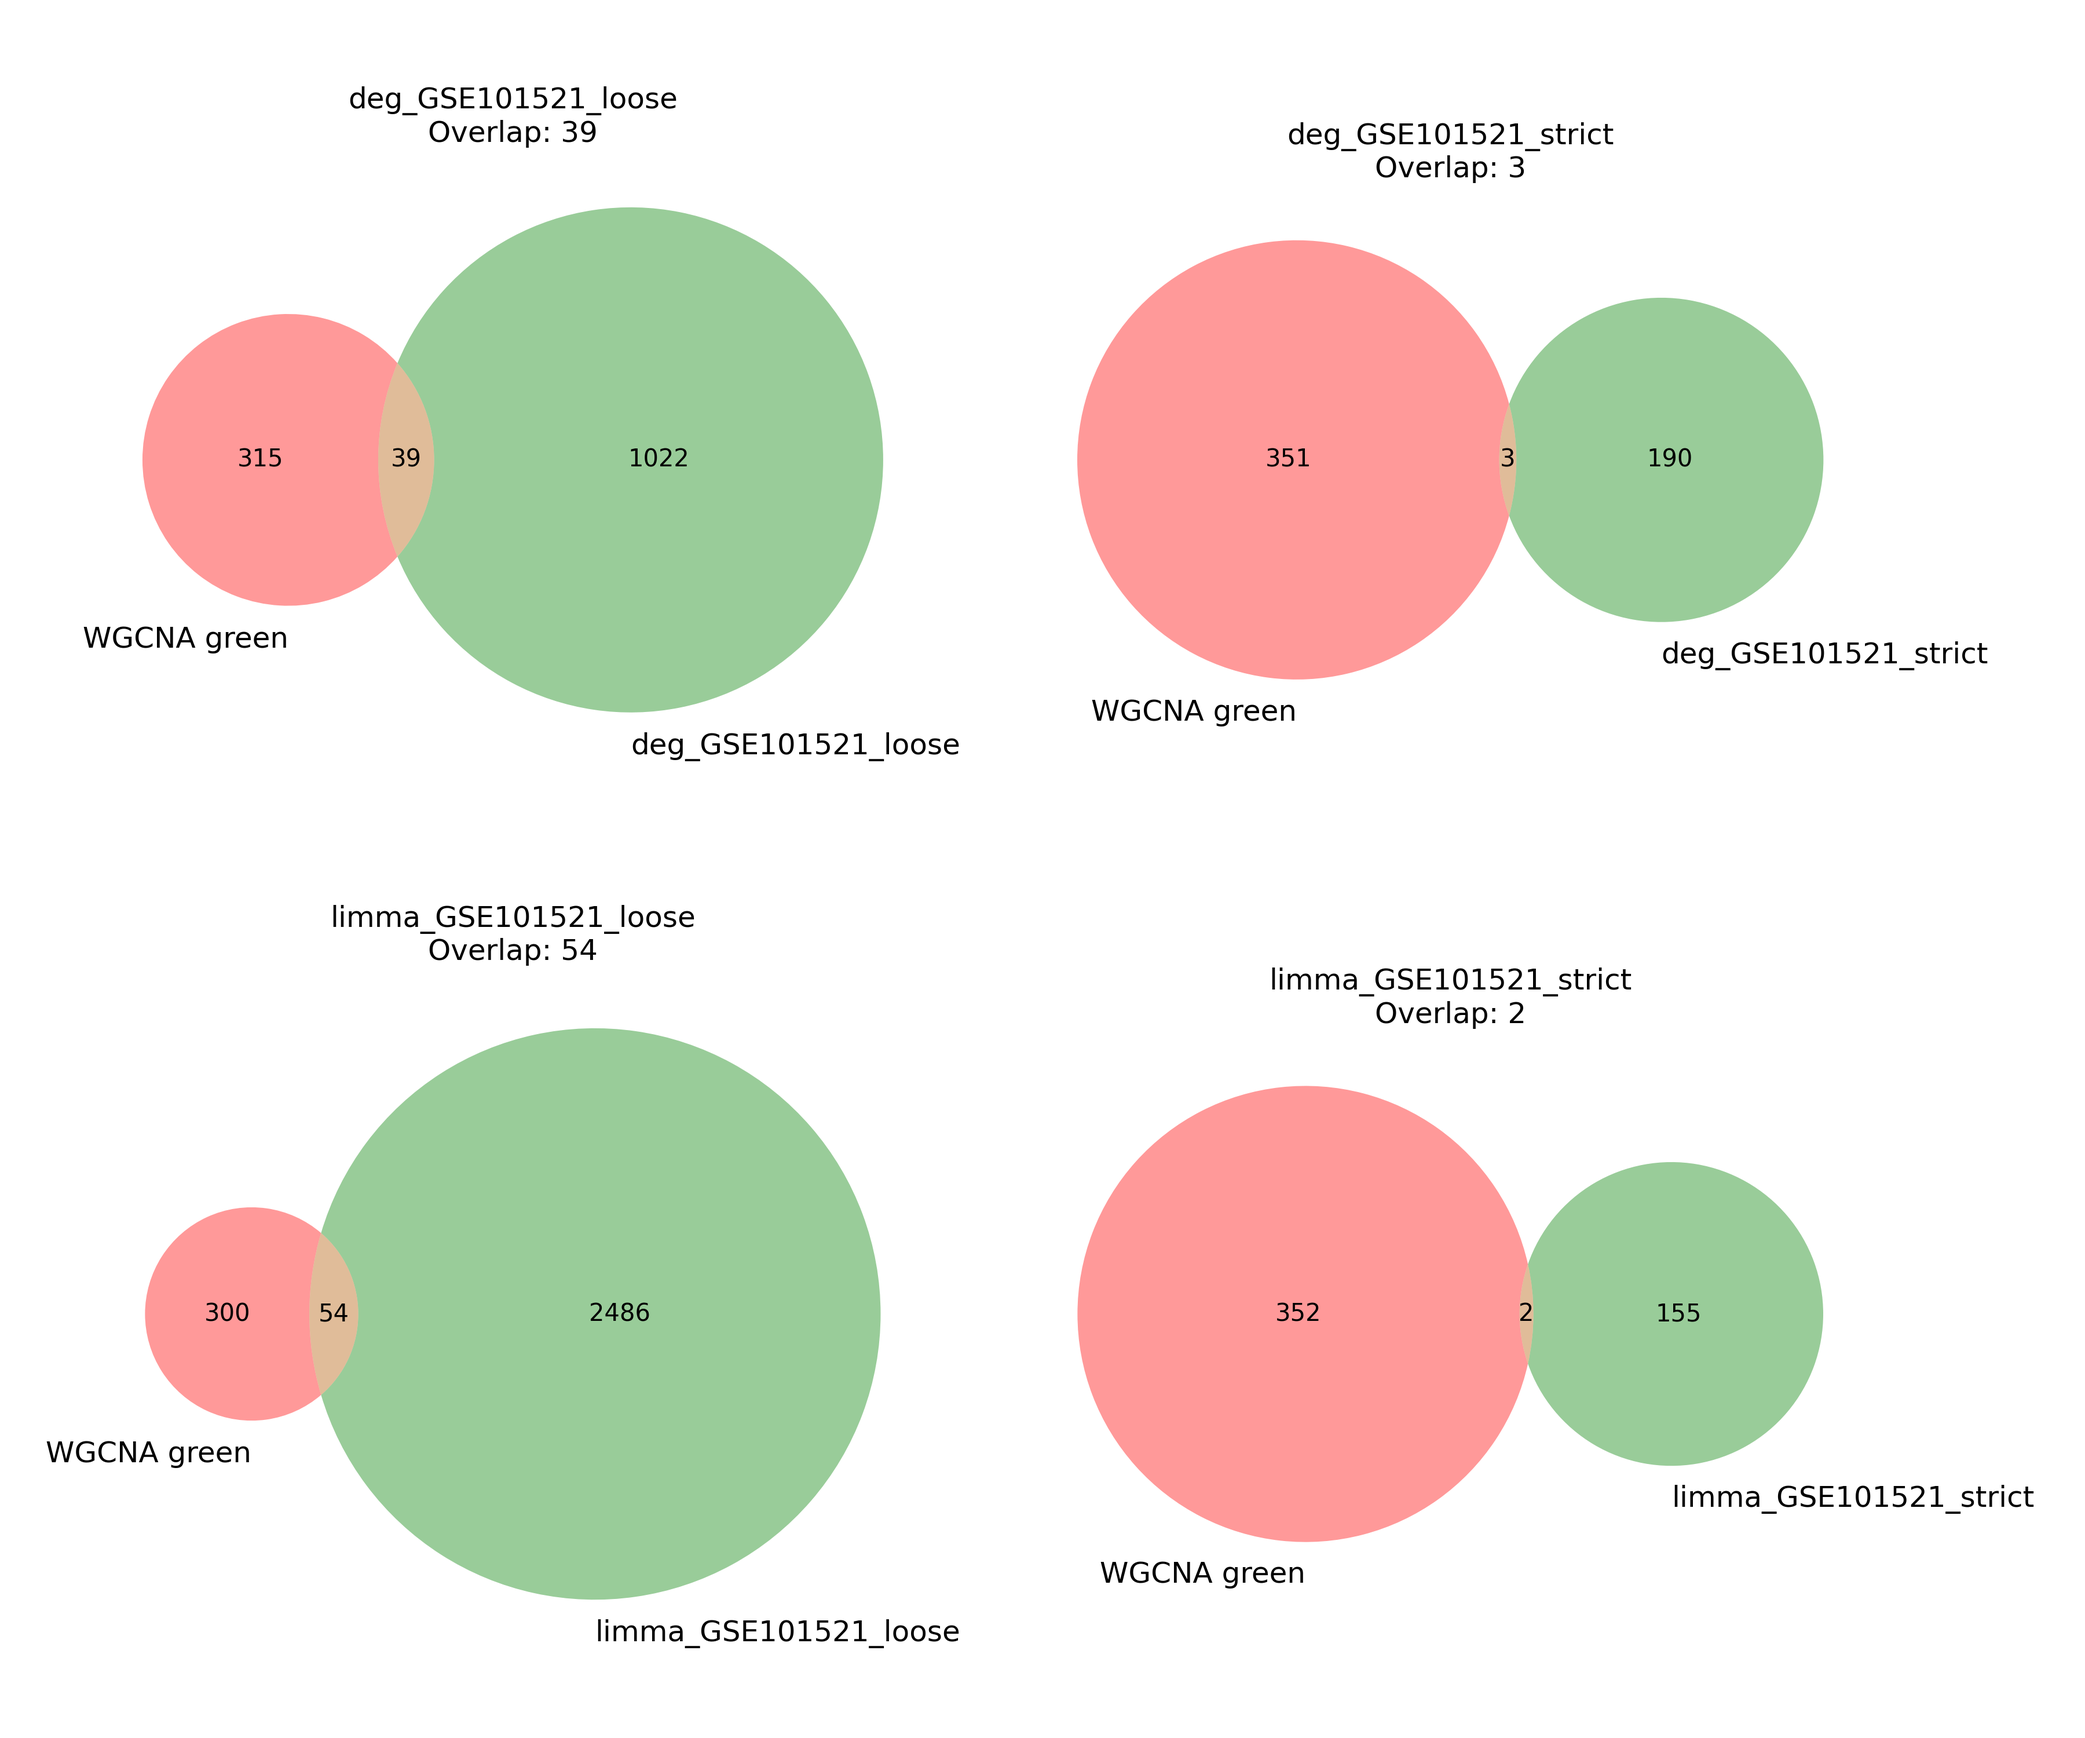
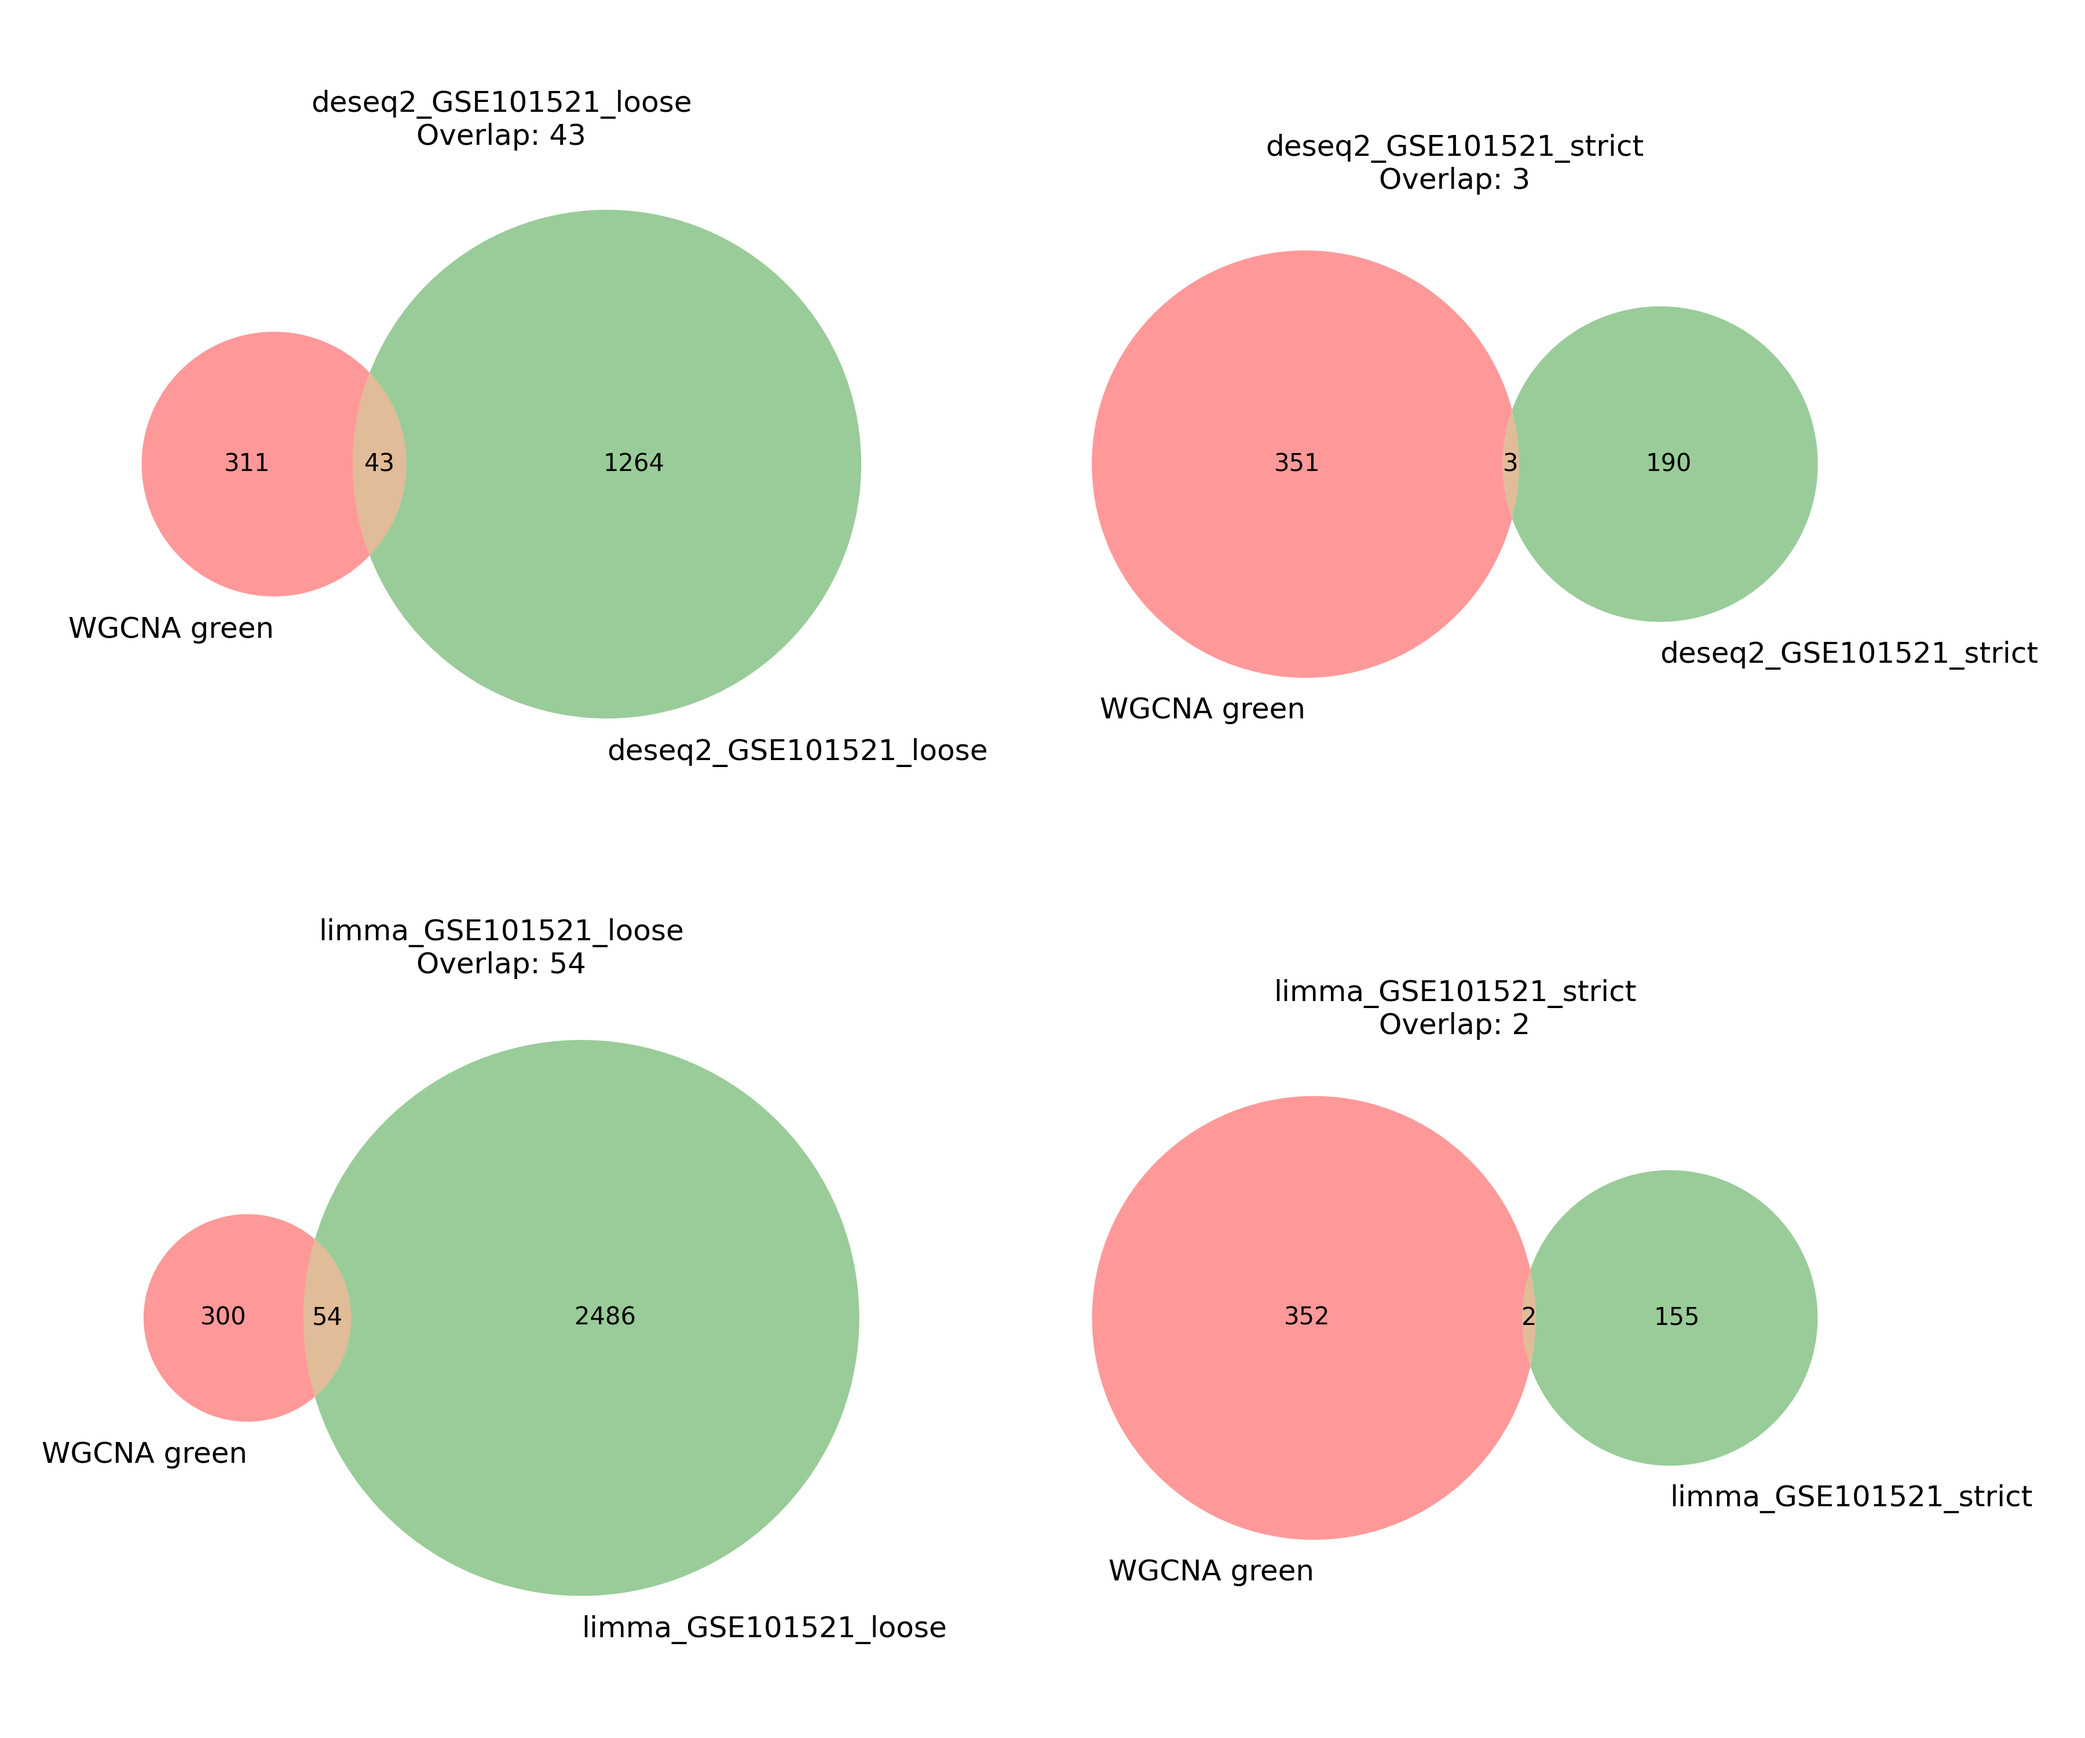
0

diff --git a/data_clean.py b/data_clean.py
@@ -1,0 +1,53 @@
+import pandas as pd
+from pathlib import Path
+
+DATA_DIR = Path("data")
+
+FILES = [
+    "GSE101521_TPM.tsv",
+    "GSE101521.tsv",
+    "GSE136825_TPM.tsv",
+    "GSE136825.tsv",
+]
+
+# 不同数据集保留的样本数
+KEEP_N = {
+    "GSE101521": 59,
+    "GSE136825": 75,
+}
+
+# 1. 读取 gene_table
+print("Loading gene_table...")
+gene_table = pd.read_csv(DATA_DIR / "gene_table.tsv", sep="\t")
+gene_map = dict(zip(gene_table["GeneID"].astype(str),
+                    gene_table["Symbol"].astype(str)))
+
+print(f"Gene mapping loaded: {len(gene_map)} genes")
+
+# 2. 逐个处理文件
+for fname in FILES:
+    path = DATA_DIR / fname
+    print(f"\nProcessing {fname} ...")
+
+    df = pd.read_csv(path, sep="\t")
+    print("Original shape:", df.shape)
+
+    # -------- GeneID -> Symbol --------
+    df.iloc[:, 0] = df.iloc[:, 0].astype(str).map(
+        lambda x: gene_map.get(x, x)
+    )
+
+    # -------- 截断样本列 --------
+    dataset = "GSE101521" if "101521" in fname else "GSE136825"
+    n_keep = KEEP_N[dataset]
+
+    # 第一列是基因名，所以是 1 + n_keep
+    df = df.iloc[:, : (1 + n_keep)]
+
+    print("After processing:", df.shape)
+
+    # -------- 覆盖保存 --------
+    df.to_csv(path, sep="\t", index=False)
+    print("Saved:", path)
+
+print("\nAll files done.")

diff --git a/overlap.py b/overlap.py
@@ -7,11 +7,12 @@ import os
 wgcna_file = 'WGCNA_results_top8000/Key_Module_green_Genes.csv'
 
 deg_files = {
-    'deg_GSE101521_loose': 'deg_GSE101521/DEGs_loose.csv',
-    'deg_GSE101521_strict': 'deg_GSE101521/DEGs_strict.csv',
-    'limma_GSE101521_loose': 'limma_GSE101521/DEGs_loose.csv',
-    'limma_GSE101521_strict': 'limma_GSE101521/DEGs_strict.csv'
+    'deseq2_GSE101521_loose': 'DEG_results/deseq2_results/DEGs_loose.csv',
+    'deseq2_GSE101521_strict': 'DEG_results/deseq2_results/DEGs_strict.csv',
+    'limma_GSE101521_loose': 'DEG_results/limma_results/DEGs_loose.csv',
+    'limma_GSE101521_strict': 'DEG_results/limma_results/DEGs_strict.csv'
 }
+
 
 # ====================== 输出文件夹 ======================
 output_dir = 'WGCNA_DEG_overlap_results'

diff --git a/GO_KEGG.py b/GO_KEGG.py
@@ -7,9 +7,9 @@ import os
 from matplotlib.gridspec import GridSpec
 
 # ================= 1. 配置区域 =================
-INPUT_FILE = "/home/project/yihao/WGCNA_DEG_overlap_results/overlap_WGCNA_deg_GSE101521_loose.csv"
+INPUT_FILE = "/home/project/yihao/WGCNA_DEG_overlap_results/overlap_WGCNA_deseq2_GSE101521_loose.csv"
 OUTPUT_DIR = "/home/project/yihao/GO_KEGG"
-COMBINED_FIGURE_NAME = "Final_Combined_Enrichment_Plot_v2.png"
+COMBINED_FIGURE_NAME = "Final_Combined_Enrichment_Plot.png"
 
 if not os.path.exists(OUTPUT_DIR):
     os.makedirs(OUTPUT_DIR)

diff --git a/DEG.py b/DEG.py
@@ -20,7 +20,7 @@ from pydeseq2.dds import DeseqDataSet
 from pydeseq2.ds import DeseqStats
 
 # ====================== 1. 配置 ======================
-INPUT_FILE = 'data/GSE101521_clean_59samples.tsv'
+INPUT_FILE = '/home/project/yihao/data/GSE101521.tsv'
 BASE_OUT   = 'DEG_results'
 LIMMA_OUT  = os.path.join(BASE_OUT, 'limma_results')
 DESEQ2_OUT = os.path.join(BASE_OUT, 'deseq2_results')
